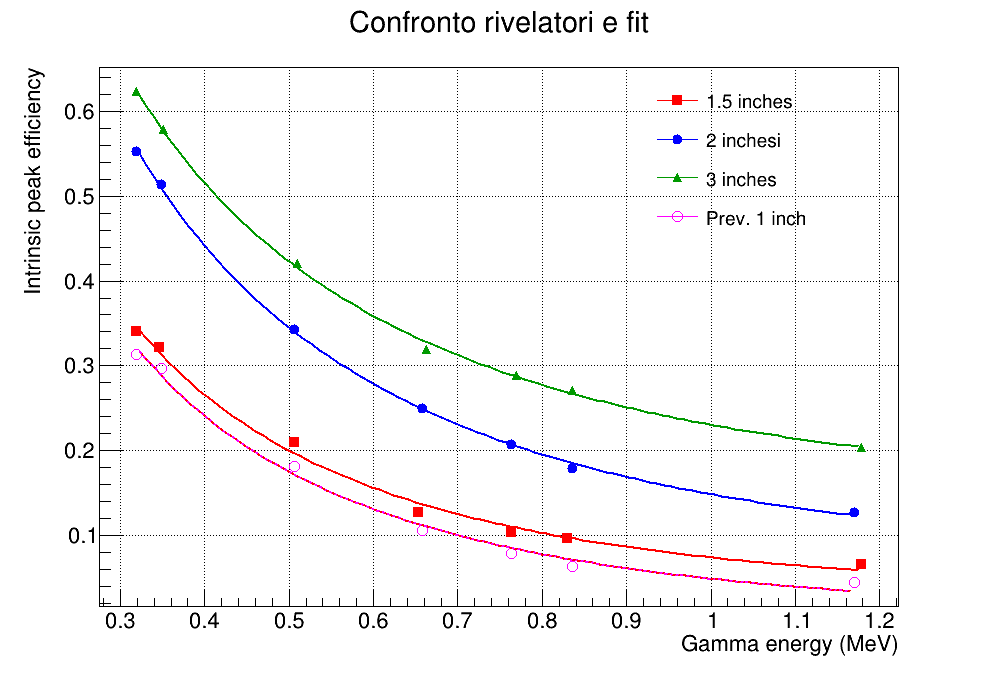
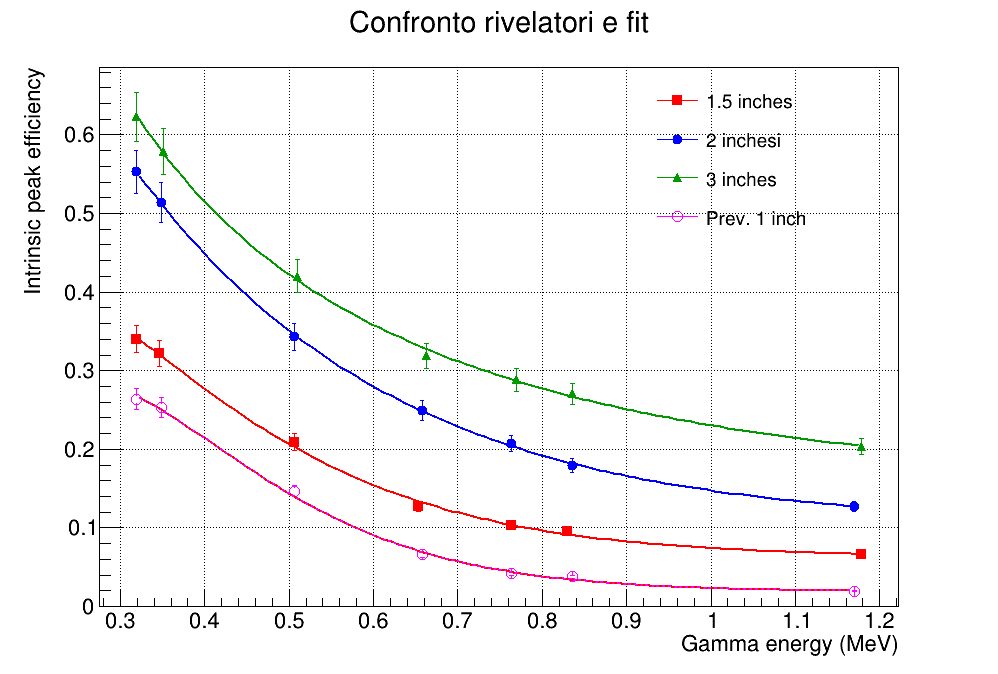
efficienze varie

diff --git a/Charatterization_elettronic_chain/Efficienza 2X2/graph.py b/Charatterization_elettronic_chain/Efficienza 2X2/graph.py
@@ -72,6 +72,7 @@ y_3pollici = [
     0.2036989525676702,
 ]
 
+Incertezza =  0.05 #L'HO SCELTA IO!
 
 # --------------------------------------------------------------------
 # 2) FUNZIONE DI FIT E FUNZIONE DI SUPPORTO PER FIT + GRAFICO
@@ -88,8 +89,10 @@ def fit_dataset(xvals, yvals, color, marker_style, legend_label):
     n = len(xvals)
     ax = array.array("d", xvals)
     ay = array.array("d", yvals)
+    ex = array.array("d", [0.0] * n)
+    ey = array.array("d", [Incertezza * y for y in yvals])  # 5% errore su y
     
-    graph = ROOT.TGraph(n, ax, ay)
+    graph = ROOT.TGraphErrors(n, ax, ay, ex ,ey)
     graph.SetMarkerColor(color)
     graph.SetLineColor(color)
     graph.SetMarkerStyle(marker_style)
@@ -122,8 +125,6 @@ graph_2, fit_2, A2, B2, C2 , D2 = fit_dataset(
     legend_label="2'' "
 )
 
-print(A2, B2, C2, D2)
-
 graph_1_5, fit_1_5, A1_5, B1_5, C1_5, D1_5 = fit_dataset(
     x_1_5pollici, y_1_5pollici,
     color=ROOT.kRed,
@@ -146,44 +147,52 @@ graph_3, fit_3, A3, B3, C3, D3 = fit_dataset(
 # Facciamo un fit lineare di A(d), B(d), C(d) in funzione di d (d=1.5,2,3)
 # e valutiamo a d=1 pollice.
 
-def interpolate_parameter(d, Y,i):
-    # Esegue un fit esponenziale param(d) = p3 + p0 * exp(p1 * d - p2)
-    # Restituisce param(1) e salva il plot del fit
-    
-    g = ROOT.TGraph(3)
-    for i in range(3):
-        g.SetPoint(i, d[i], Y[i])
-    
-    # Fit esponenziale
-    f_exp = ROOT.TF1("f_exp", "[3] + [0]*exp([1]*x - [2])", 0, 5)
-    g.Fit(f_exp, "Q")  # Q=quiet
-    
-    # Otteniamo i parametri del fit
-    p0 = f_exp.GetParameter(0)
-    p1 = f_exp.GetParameter(1)
-    p2 = f_exp.GetParameter(2)
-    p3 = f_exp.GetParameter(3)
-    
-    # Creazione del canvas per il plot
-    c_fit = ROOT.TCanvas("c_fit", "Fit Parameter", 800, 600)
+fit_511_params = {}
+
+def interpolate_parameter(d, Y, i):
+ # Costruzione di TGraphErrors con errore 5% su Y
+    n = len(d)
+    ax = array.array("d", d)
+    ay = array.array("d", Y)
+    ex = array.array("d", [0.0] * n)
+    ey = array.array("d", [Incertezza * y for y in Y])  # 5% errore relativo
+
+    g = ROOT.TGraphErrors(n, ax, ay, ex, ey)
+
+    # Fit function: f(d) = p3 + p0 * exp(p1 * d - p2)
+    f_exp = ROOT.TF1("f_exp", " [0]*x + [1]", 0, 5)
+    f_exp.SetParameters(1, 1, 1, 1)  # parametri iniziali
+
+    g.Fit(f_exp, "Q")  # Quiet fit
+
+    # Estrai parametri e incertezze
+    p = [f_exp.GetParameter(k) for k in range(2)]
+    dp = [f_exp.GetParError(k) for k in range(2)]
+
+    # Salva i parametri se i == 2 (511 keV)
+    if i == 2:
+        fit_511_params["params"] = p
+        fit_511_params["errors"] = dp
+        print("Parametri e errori salvati per 511 keV (1 pollice).")
+
+    # Plot
+    c_fit = ROOT.TCanvas("c_fit", f"Fit Param {i}", 800, 600)
     g.SetTitle("Fit dei parametri in funzione della dimensione; Dimensione (pollici); Valore del parametro")
     g.SetMarkerStyle(20)
     g.SetMarkerColor(ROOT.kBlue)
-    g.Draw("AP")  # A = draw axis, P = draw points
+    g.Draw("AP")
     f_exp.SetLineColor(ROOT.kRed)
     f_exp.Draw("same")
-    
-    # Salvataggio del grafico
-    c_fit.SaveAs("fit_parameter"+ str(i)+".png")
-    
-    return p3 + p0 * np.exp(p1 * 1 - p2)  # valore a d=1 pollice
-diams = [1.5, 2.0, 3.0]  # dimensioni in pollici
+    c_fit.SaveAs(f"fit_parameter{i}.png")
 
-y_1=[]
+    # Valore interpolato a d = 1
+    return  p[0] * 1 + p[1]  
 
+diams = [1.5, 2.0, 3.0]
+y_1 = []
 
 for i in range(7):
-    y_1.append(interpolate_parameter(diams, [y_1_5pollici[i], y_2pollici[i], y_3pollici[i]],i))
+    y_1.append(interpolate_parameter(diams, [y_1_5pollici[i], y_2pollici[i], y_3pollici[i]], i))
 
 graph_1, fit_1, A1, B1, C1, D1 = fit_dataset(
     x_2pollici, y_1,
@@ -191,6 +200,24 @@ graph_1, fit_1, A1, B1, C1, D1 = fit_dataset(
     marker_style=24,
     legend_label="1'' "
 )
+
+def predict_efficiency_511 (fit_params, d=1.0):
+    # Estrai parametri e incertezze
+    p0, p1 = fit_params['params']
+    dp0, dp1 = fit_params['errors']
+
+    print( "P0:", p0, "±", dp0)
+    print( "P1:", p1, "±", dp1)
+    
+
+    eff = p0 * d + p1
+    delta_eff = np.sqrt((dp0 * d)**2 + (dp1)**2)
+
+    return eff, delta_eff
+
+eff_511, err_511 = predict_efficiency_511(fit_511_params)
+print(f"\n Efficienza a 511 keV (1 pollice): {eff_511:.5f} ± {err_511:.5f} \n")
+
 
 # --------------------------------------------------------------------
 # 5) DISEGNO SU UN UNICO CANVAS + LEGENDA
@@ -247,14 +274,10 @@ c.SaveAs("Efficienze.png")
 #-------------- STAMPA VALORI A SCHERMO --------
 
 print("\nParametri del fit per il rivelatore da 2 pollici (A*x^-B*exp(-C*x)+D):")
-print(f"  A = {fit_2.GetParameter(0):.5f}")
-print(f"  B = {fit_2.GetParameter(1):.5f}")
-print(f"  C = {fit_2.GetParameter(2):.5f}")
-print(f"  D = {fit_2.GetParameter(3):.5f}\n")
-
-
-print("\nPrevisioni efficienza per 1'' usando il fit:")
-print(f"x = 0.511 MeV → efficienza = {fit_1.Eval(0.511):.5f} \n")
+print(f"  A = {fit_2.GetParameter(0):.5f} ± {fit_2.GetParError(0):.5f}")
+print(f"  B = {fit_2.GetParameter(1):.5f} ± {fit_2.GetParError(1):.5f}")
+print(f"  C = {fit_2.GetParameter(2):.5f} ± {fit_2.GetParError(2):.5f}")
+print(f"  D = {fit_2.GetParameter(3):.5f} ± {fit_2.GetParError(3):.5f}\n")
 
 print("Previsioni efficienza per 2'' usando il fit:")
 print(f"x = 0.511 MeV → efficienza = {fit_2.Eval(0.511):.5f} ")
